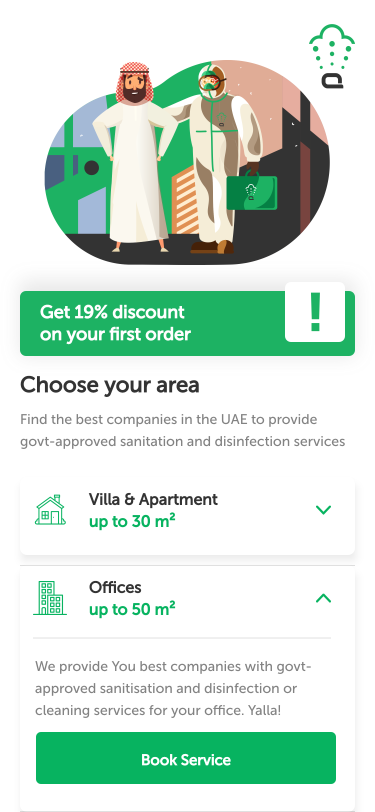
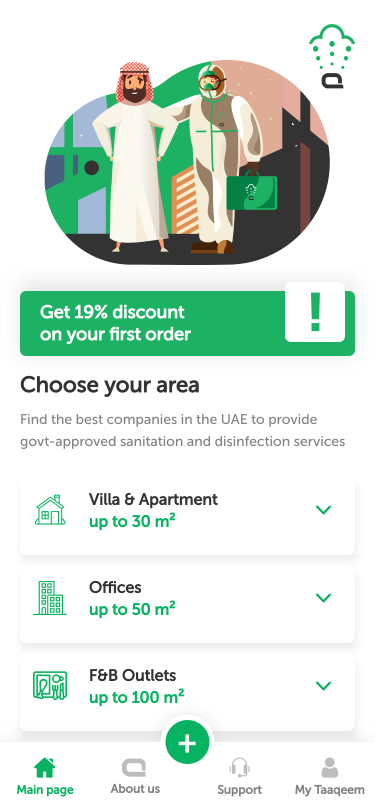
Added plus button

Changed region(s): [[0.0293, 0.8005, 0.968, 0.9852], [0.8507, 0.8313, 0.88, 0.8621], [0.8507, 0.7081, 0.88, 0.7389]]

diff --git a/lib/widgets/plus_button_widget.dart b/lib/widgets/plus_button_widget.dart
@@ -1,0 +1,85 @@
+//
+//  lib/widgets/plus_button_widget.dart
+//
+//  Created by Denis Bystruev on 29/04/2020.
+//
+
+import 'dart:math';
+import 'package:flutter/material.dart';
+import 'package:taaqeem/design/scale.dart';
+import 'package:taaqeem/globals.dart' as globals;
+import 'package:taaqeem/widgets/text_widgets.dart';
+
+class PlusButtonWidget extends StatelessWidget with Scale {
+  final Color backgroundColor;
+  final double blurRadius;
+  final Color color;
+  final void Function() onTap;
+  final double radius;
+
+  PlusButtonWidget({
+    this.backgroundColor = globals.accentColor,
+    this.color = globals.primaryColor,
+    this.onTap,
+    this.radius = 27,
+  }) : blurRadius = max(10, 30 - radius);
+
+  @override
+  Widget build(BuildContext context) {
+    final double scale = getScale(context);
+    final double doubleScale = 2 * scale;
+    final double plusSize = doubleScale * (radius - 5);
+    return SizedBox(
+      child: Stack(
+        alignment: Alignment.center,
+        children: [
+          Container(
+            child: Container(),
+            decoration: BoxDecoration(
+              boxShadow: [
+                BoxShadow(
+                  blurRadius: blurRadius * scale,
+                  color: globals.shadowColor,
+                ),
+              ],
+              color: color,
+              shape: BoxShape.circle,
+            ),
+            height: doubleScale * radius,
+            width: doubleScale * radius,
+          ),
+          Column(
+            children: [
+              Expanded(
+                child: Container(color: Colors.transparent),
+              ),
+              Expanded(
+                child: Container(color: color),
+              ),
+            ],
+          ),
+          InkWell(
+            child: Container(
+              alignment: Alignment.center,
+              child: TheText.bold(
+                color: color,
+                fontSize: 30,
+                text: '+',
+                textScaleFactor: scale,
+              ),
+              decoration: BoxDecoration(
+                color: backgroundColor,
+                shape: BoxShape.circle,
+              ),
+              height: plusSize,
+              width: plusSize,
+            ),
+            onTap: onTap,
+          )
+        ],
+      ),
+      height: doubleScale * (radius + blurRadius),
+      width: doubleScale * (radius + blurRadius),
+    );
+  }
+}

diff --git a/lib/screens/main_screen.dart b/lib/screens/main_screen.dart
@@ -13,6 +13,7 @@ import 'package:taaqeem/widgets/bottom_navigation_widget.dart';
 import 'package:taaqeem/widgets/discount_widget.dart';
 import 'package:taaqeem/widgets/header_image_widget.dart';
 import 'package:taaqeem/widgets/plan_widget.dart';
+import 'package:taaqeem/widgets/plus_button_widget.dart';
 import 'package:taaqeem/widgets/title_widget.dart';
 
 class MainScreen extends StatefulWidget {
@@ -90,7 +91,7 @@ class _MainScreenState extends State<MainScreen> with Scale {
                   },
                   onPressed: (int index) {
                     debugPrint(
-                      'lib/screens/main_screen.dart:92 order index = $index, planIndex = $planIndex',
+                      'lib/screens/main_screen.dart:94 order index = $index, planIndex = $planIndex',
                     );
                   },
                   scale: scale,
@@ -106,11 +107,19 @@ class _MainScreenState extends State<MainScreen> with Scale {
           onTap: (int index) {
             setState(() => selectedBottomBarItem = index);
             debugPrint(
-              'lib/screens/main_screen.dart:107 bottom item index = $index',
+              'lib/screens/main_screen.dart:110 bottom index = $index',
             );
           },
           selectedIndex: selectedBottomBarItem,
         ),
+        floatingActionButton: PlusButtonWidget(
+          onTap: () {
+            debugPrint(
+              'lib/screens/main_screen.dart:118 plus button',
+            );
+          },
+        ),
+        floatingActionButtonLocation: FloatingActionButtonLocation.centerDocked,
       ),
     );
   }

diff --git a/lib/widgets/bottom_navigation_widget.dart b/lib/widgets/bottom_navigation_widget.dart
@@ -18,10 +18,23 @@ class BottomNavigationWidget extends StatelessWidget with Scale {
   @override
   Widget build(BuildContext context) {
     final double scale = getScale(context);
-    return buildBottomAppBarContents(
-      currentIndex: selectedIndex,
-      onTap: onTap,
-      scale: scale,
+    return Container(
+      child: Container(
+        color: Theme.of(context).primaryColor,
+        child: buildBottomAppBar(
+          currentIndex: selectedIndex,
+          onTap: onTap,
+          scale: scale,
+        ),
+      ),
+      decoration: BoxDecoration(
+        boxShadow: [
+          BoxShadow(
+            blurRadius: 15 * scale,
+            color: globals.shadowColor,
+          )
+        ],
+      ),
     );
   }
 
@@ -63,7 +76,7 @@ class BottomNavigationWidget extends StatelessWidget with Scale {
     );
   }
 
-  Container buildBottomAppBarContents({
+  Widget buildBottomAppBar({
     int currentIndex = 0,
     ValueChanged<int> onTap,
     double scale = 1,
@@ -87,7 +100,7 @@ class BottomNavigationWidget extends StatelessWidget with Scale {
             selected: currentIndex == barItemIndex++,
           ),
         );
-    return Container(
+    return SizedBox(
       child: Row(
         children: [
           barItem('Main page', iconName: 'home', iconWidth: 22),
@@ -96,7 +109,6 @@ class BottomNavigationWidget extends StatelessWidget with Scale {
           barItem('Support'),
           barItem('My Taaqeem', iconName: 'user'),
         ],
-        crossAxisAlignment: CrossAxisAlignment.end,
       ),
       height: 70 * scale,
     );

diff --git a/lib/widgets/discount_widget.dart b/lib/widgets/discount_widget.dart
@@ -42,7 +42,7 @@ class DiscountWidget extends StatelessWidget with Scale {
                 BoxShadow(
                   blurRadius: 15 * scale,
                   color: globals.shadowColor,
-                )
+                ),
               ],
             ),
             padding: EdgeInsets.only(top: 10 * scale),
